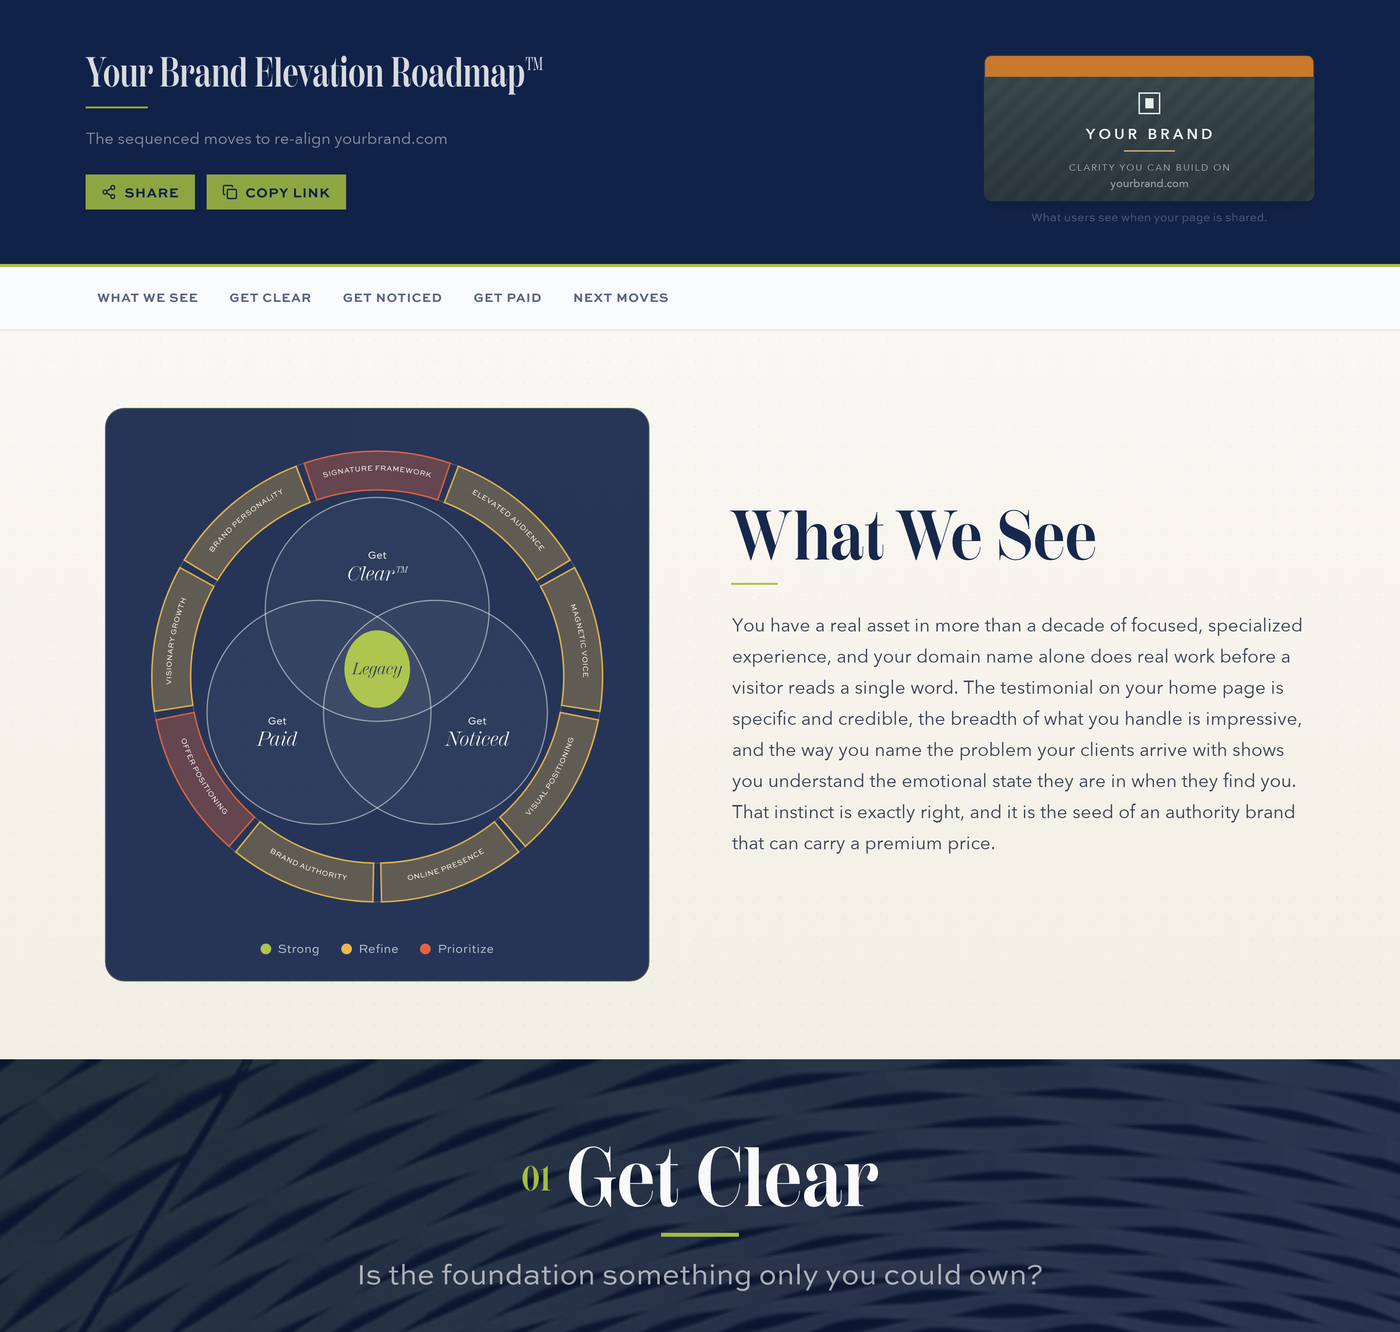
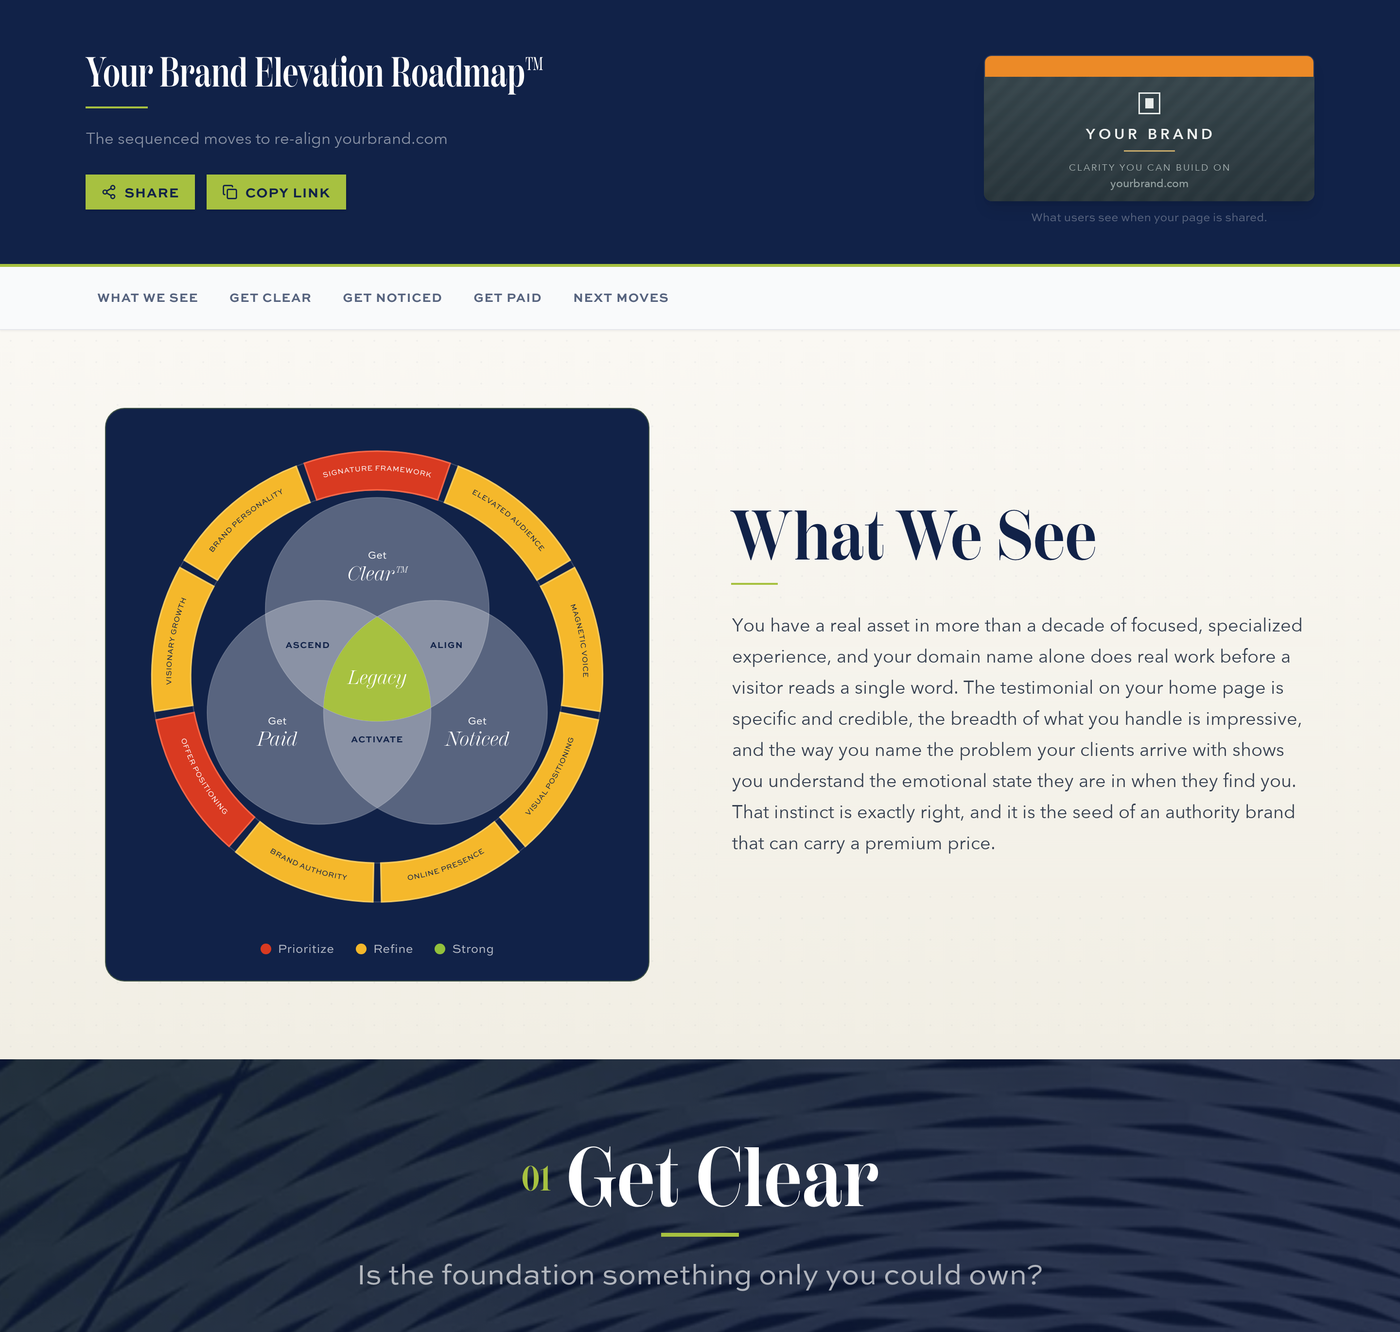
Restore the framework section's top padding; refresh the hero mockup
The Framework section carried paddingBottom only, because it used to flow
straight out of the white section above it. Inserting the video band between
them left it butting against navy with no top edge. It takes the standard
sectionPad now, like every other section.

Hero mockup re-shot from report NF6YRH so it shows the current wheel: bright
traffic-light ring, Legacy filling the three-circle overlap, the Ascend/
Align/Activate labels, and the legend in red-amber-green order. Same
de-identification as before (domain, OpenGraph card, and the read itself,
which names the client and predates the voice scrub).

Also drops "These leaders came to us for private brand engagements" from the
testimonial closer.

diff --git a/src/app/start/page.tsx b/src/app/start/page.tsx
@@ -699,7 +699,7 @@ export default function StartPage() {
       {/* ════════════════════════════════════════════════════════
           THE STRATEGIC LENS … white, image left / text right
       ════════════════════════════════════════════════════════ */}
-      <section style={{ background: "#fff", paddingBottom: "clamp(80px, 11vw, 168px)" }}>
+      <section style={{ background: "#fff", ...sectionPad }}>
         <motion.div
           style={{ ...container }}
           initial="hidden"
@@ -1045,8 +1045,7 @@ export default function StartPage() {
             initial="hidden" whileInView="visible" variants={rv} viewport={vp}
             style={{ fontFamily: SANS, fontSize: BODY, lineHeight: 1.45, color: "rgba(255,255,255,0.78)", maxWidth: 760, margin: "48px 0 0" }}
           >
-            These leaders came to us for private brand engagements. Your Roadmap
-            runs on the same framework theirs did.
+            Your Roadmap runs on the same framework theirs did.
           </motion.p>
         </div>
       </section>
